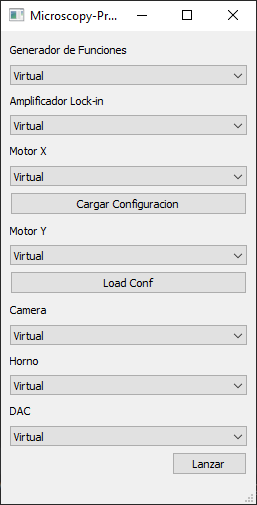
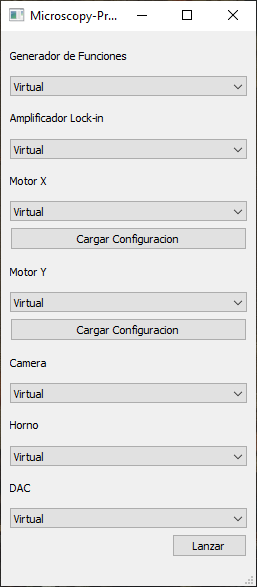
Ortografia y fotos nuevas

diff --git a/components/Oven/instrument_ui.py b/components/Oven/instrument_ui.py
@@ -72,7 +72,7 @@ class OvenInstrument(ConfigurableInstrument):
 
     def variable_documentation(self) -> Dict[str, str]:
         return {
-            "Temperature": "The temperature at the moment the measure was taken"
+            "Temperature": "The temperature at the moment the measure was taken in degrees celsius"
         }
 
     @Feat

diff --git a/readme.md b/readme.md
@@ -11,13 +11,15 @@ Se puede descargar del siguiente link https://www.anaconda.com/download.
 
 ### Biblioteca
 
-Para instalar las bibliotecas de python es solo necesario hacer el comando `pip install -r requirements.txt`. 
-Proveo también el archivo `frozenreqs.txt` que contienen la version específica de las bibliotecas de python
+Para instalar las bibliotecas de python es solo necesario hacer el comando
+`pip install -r requirements.txt`. Proveo también el archivo `frozenreqs.txt`
+que contienen la version específica de las bibliotecas de python
 con las cuales se testeó y utilizo el programa.
 
 ### Dispositivos Externos
 
-El funcionamiento del Microscopy-Program depende de drivers de dispositivos externos. Listo los drivers utilizados.
+El funcionamiento del Microscopy-Program depende de drivers de dispositivos externos. 
+Listo los drivers utilizados.
 
 Lock-in AMU 2.4: [`AMU 2.4 Lockin.dll` de Anfatec](https://www.anfatec.de/products/3_lockin/amu/24/pci-bus_lockin_amplifier_amu24.html)
 
@@ -90,55 +92,55 @@ indicando que opciones se pueden modificar.
 ![Configurar Corrida](Documentation/configure_page.png 
 "Configuración")
 
-Camara: La camara tiene un cuadrado mostrando continuamente fotos del
-dispositivo. Se puede ademas clickear en la pantalla para asignar 
+Cámara: La cámara tiene un cuadrado mostrando continuamente fotos del
+dispositivo. Se puede además clickear en la pantalla para asignar 
 la ruta de movimiento de la platina. Este movimiento se puede calibrar
-con el boton calibrar. La seleccion de cuadrado/linea indica si el motor
-x y el motor y se mueven en paralelo o simultaneo respectivamente.
+con el botón calibrar. La selección de cuadrado/línea indica si el motor
+X y el motor Y se mueven en paralelo o simultáneo respectivamente.
 
-Pantalla de calibracion:
+Pantalla de calibración:
 
-Motor: Cada motor tiene una posicion actual y sus parametros de
-velocidad, aceleracion y antiplay (backlash). Se puede cambiar el cero
-con el boton que indica que la posicion actual es el cero. Durante
-la corrida, el motor va a ir de la posicion inicial a la final con
+![Pantalla de Calibración](Documentation/configure_page_calibration.png)
+
+Motor: Cada motor tiene una posición actual y sus parámetros de
+velocidad, aceleración y antiplay (backlash). Se puede cambiar el cero
+con el botón que indica que la posición actual es el cero. Durante
+la corrida, el motor va a ir de la posición inicial a la final con
 la cantidad de pasos indicando cuantas paradas hace. Ejemplo: si el motor
-x/y estan en modo linea con los parametros: inicial 0, final 2, pasos 3; 
+x/y están en modo línea con los parámetros: inicial 0, final 2, pasos 3; 
 las posiciones van a ser (0,0), (1,1), (2,2).
 
-Mover Motor: esta seccion permite enviar el motor a la posicion en
-la caja de arriba. La caja de abajo guarda la posicion en la cual 
-estaba cuando se movio. Stop para el motor en el momento, en caso de
+Mover Motor: esta sección permite enviar el motor a la posición en
+la caja de arriba. La caja de abajo guarda la posición en la cual 
+estaba cuando se movió. Stop para el motor en el momento, en caso de
 que haya un error. 
 
 Generador de Funciones: permite configurar la amplitud, el offset, 
 la forma y el rango de frecuencias. Todos los valores de frecuencias
 son en Hertz.
-El rango de frecuencias puede ser lineal o logaritmico. Ejemplo:
-Con los parametros frecuencia inicial 10, frecuencia inicial 1000,
-pasos 3; las freucncias van a ser 10, 100, 1000.
-
-[//]: # (Actualizar texto en screenshot y remover repeat)
+El rango de frecuencias puede ser lineal o logarítmico. Ejemplo:
+Con los parámetros frecuencia inicial 10, frecuencia inicial 1000,
+pasos 3; las frecuencias van a ser 10, 100, 1000.
 
 Horno: permite configurar el rango de temperatura del horno.
 
 Control de Foco: permite prender y apagar el control laser
-de prueba, controlar su potencia y ver los graficos de reflectancia, 
-suma abcd y error de foco. El control de foco automaticamente enfoca
-el motor moviendo el eje Z con los parametros provistos (no funcional).
+de prueba, controlar su potencia y ver los gráficos de reflectancia, 
+suma abcd y error de foco. El control de foco automáticamente enfoca
+el motor moviendo el eje Z con los parámetros provistos (no funcional).
 
-[//]: # (Sacar foto de los graficos)
+![Graficos Control de Foco](Documentation/configure_page_dac_graphs.png)
 
 Lockin: permite configurar la constante de tiempo, la ganancia, la curva,
-el harmonico y la referencia externa. Importante: para los experimentos, la
-referencia externa tendria que estar siempre prendida.
+el armónico y la referencia externa. Importante: para los experimentos, la
+referencia externa tendría que estar siempre prendida.
 
-[//]: # (Sacar foto de grafico y)
+![Graficos Lock-in](Documentation/configure_page_lockin_graphs.png)
 
-Acoplamiento: permite indicar que dispositivos están acoplados y el orden 
-de los puntos. Los dispositivos con el valor más alto varian sus puntos 
+Acoplamiento: permite indicar qué dispositivos están acoplados y el orden 
+de los puntos. Los dispositivos con el valor más alto varían sus puntos 
 primero. Ejemplo: si la el horno está acoplado en 1 con los valores
-40° y 50° y el generador de frecuencia esta acoplado en 2 con los valores
+40° y 50° y el generador de frecuencia está acoplado en 2 con los valores
 100Hz y 1000Hz los puntos son (40°, 100Hz) -> (40°, 1000Hz)
  -> (50°, 100Hz) -> (50°, 1000Hz).
 
